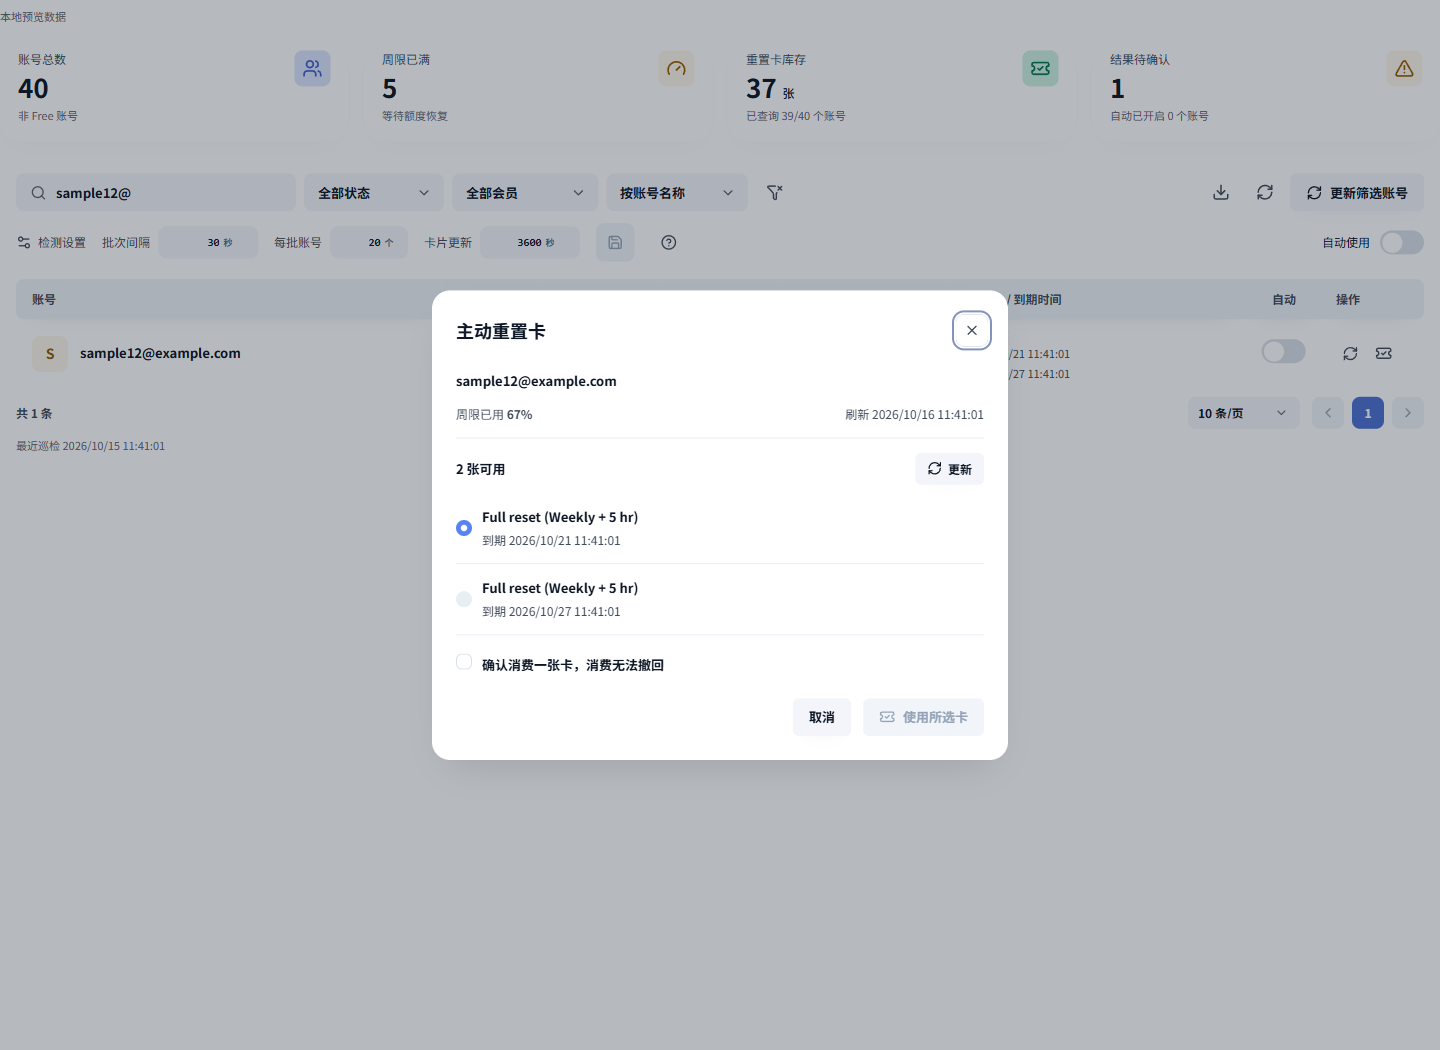
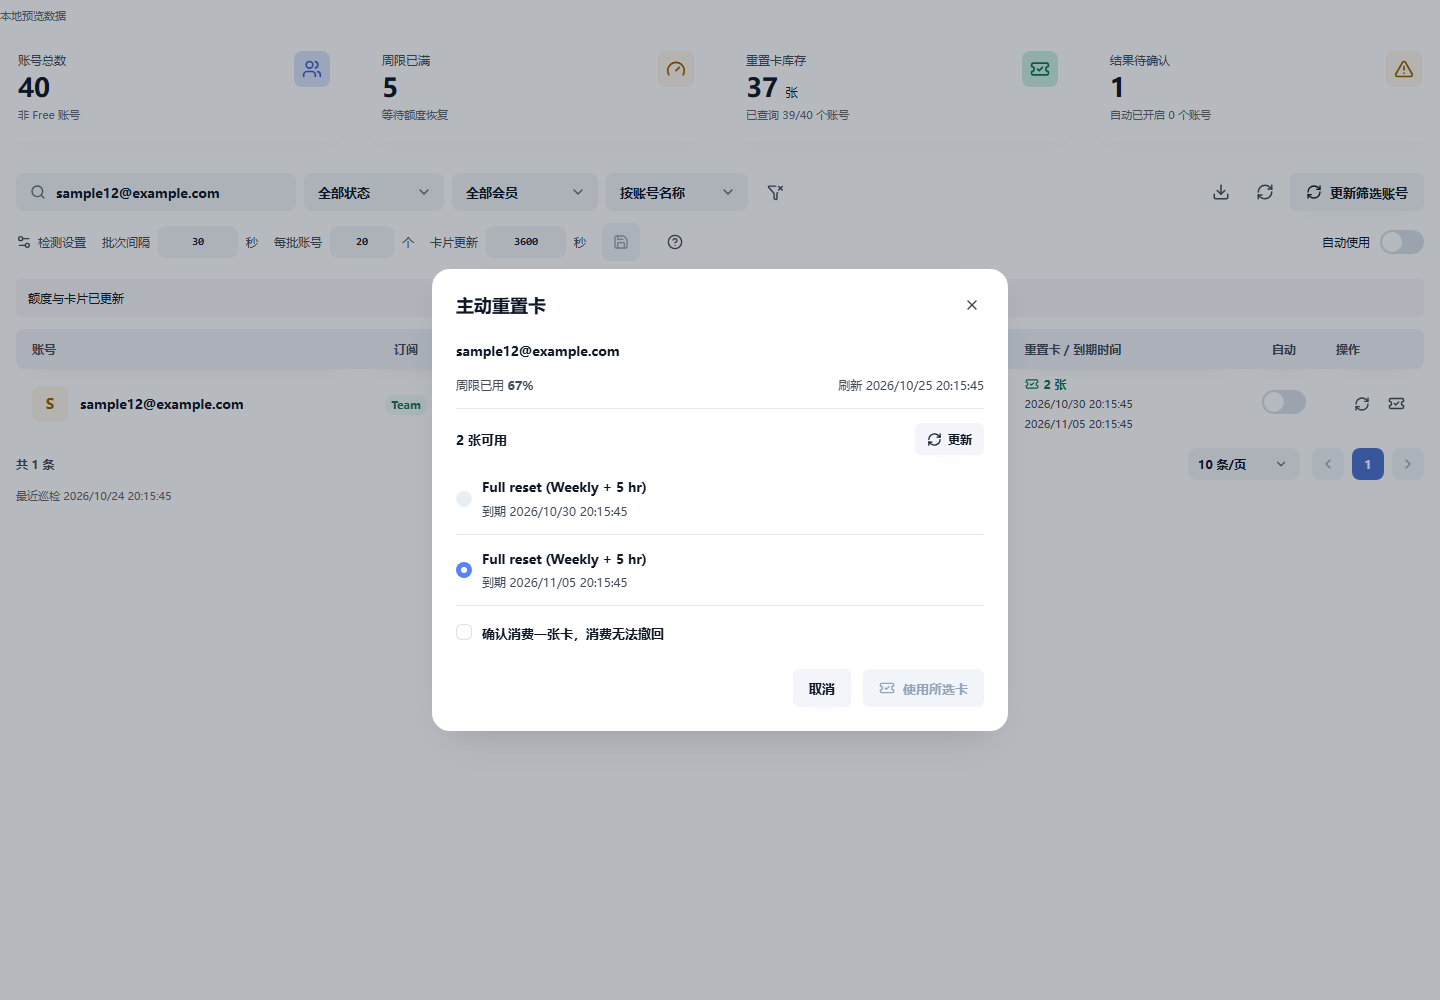
feat: display weekly estimated quota amount from host

diff --git a/frontend/src/api/schemas/quota.ts b/frontend/src/api/schemas/quota.ts
@@ -1,4 +1,4 @@
-import type { Card, Event, Page, Pending, Quota, Row, SettingsResult, State } from '../../types'
+import type { Card, Event, ForecastReport, ForecastResult, Page, Pending, Quota, Row, SettingsResult, State } from '../../types'
 import { array, boolean, nonNegativeInteger as integer, nullable, number, record, string } from '../validation'
 
 export function parseSettings(input: unknown): SettingsResult {
@@ -39,20 +39,34 @@ function parseQuota(input: unknown): Quota {
     return { key: string(w.key, '窗口标识'), window_seconds: nullable(w.window_seconds, integer, '窗口时长'), used_percent: nullable(w.used_percent, number, '用量比例'), reset_at_ms: nullable(w.reset_at_ms, integer, '额度刷新时间') }
   }, '额度窗口') }
 }
+function parseForecast(input: unknown): ForecastReport {
+  const v = record(input, '容量预估')
+  return { accountId: string(v.accountId, '预估账号'), generatedAt: string(v.generatedAt, '预估时间'), forecasts: array(v.forecasts, input => {
+    const f = record(input, '周期预估')
+    return {
+      period: string(f.period, '预估周期'), targetDays: number(f.targetDays, '预估天数'), extrapolated: boolean(f.extrapolated, '周期折算'),
+      unavailableReason: nullable(f.unavailableReason, string, '预估不可用原因'), lowSample: boolean(f.lowSample, '初步预估'), incompleteCost: boolean(f.incompleteCost, '费用记录不完整'),
+      estimatedUsd: nullable(f.estimatedUsd, number, '预估美元'), estimatedUsdDisplay: string(f.estimatedUsdDisplay, '预估美元显示'),
+    }
+  }, '周期预估') }
+}
+function parseForecastResult(v: Record<string, unknown>): ForecastResult {
+  return { forecast: nullable(v.forecast, parseForecast, '容量预估'), forecastError: nullable(v.forecastError, string, '预估查询错误') }
+}
 function parseRow(input: unknown): Row {
   const v = record(input, '账号'), a = record(v.account, '账号信息')
   return {
     account: { account_id: string(a.account_id, '账号标识'), provider_id: string(a.provider_id, '提供方'), name: string(a.name, '账号名称'), email: nullable(a.email, string, '账号邮箱'), enabled: boolean(a.enabled, '启用状态'), authentication_kind: string(a.authentication_kind, '认证类型'), plan_type: nullable(a.plan_type, string, '会员标识') },
-    quota: nullable(v.quota, parseQuota, '额度'), state: parseState(v.state),
+    quota: nullable(v.quota, parseQuota, '额度'), state: parseState(v.state), ...parseForecastResult(v),
   }
 }
 export function parsePage(input: unknown): Page {
   const v = record(input, '账号分页')
   return { accounts: array(v.accounts, parseRow, '账号列表'), excludedPending: array(v.excludedPending, parseRow, '已排除未决账号'), nextCursor: nullable(v.nextCursor, string, '分页游标'), generatedAtMs: integer(v.generatedAtMs, '快照时间') }
 }
-export function parseUpdate(input: unknown): { state: State; quota: Quota | null } {
+export function parseUpdate(input: unknown): { state: State; quota: Quota | null } & ForecastResult {
   const v = record(input, '更新结果')
-  return { state: parseState(v.state), quota: nullable(v.quota, parseQuota, '额度') }
+  return { state: parseState(v.state), quota: nullable(v.quota, parseQuota, '额度'), ...parseForecastResult(v) }
 }
 export function parsePolicy(input: unknown): SettingsResult & { state: State } {
   return { ...parseSettings(input), state: parseState(record(input, '账号策略').state) }

diff --git a/frontend/src/App.vue b/frontend/src/App.vue
@@ -16,6 +16,7 @@ import { ZRadio } from '@codex-proxy/ui/radio'
 import { ZSwitch } from '@codex-proxy/ui/switch'
 import { ZTable, type TableColumn } from '@codex-proxy/ui/table'
 import PlanBadge from './PlanBadge.vue'
+import ForecastCell from './ForecastCell.vue'
 import ExportDialog from './ExportDialog.vue'
 import { ref } from 'vue'
 import { avatarTone, canReset, csv, isAutomaticEligible, isLimited, selectable, status, time, week, weeks } from './format'
@@ -37,6 +38,7 @@ const columns: TableColumn<Row>[] = [
   { key: 'plan', label: '订阅', kind: 'status', width: 95, align: 'center' },
   { key: 'status', label: '状态', kind: 'status', width: 120 },
   { key: 'weekly', label: '周限', kind: 'custom', width: 120 },
+  { key: 'forecast', label: '周预估金额', kind: 'custom', width: 140 },
   { key: 'reset', label: '周限刷新时间', kind: 'datetime', width: 175 },
   { key: 'cards', label: '重置卡 / 到期时间', kind: 'custom', minWidth: 220 },
   { key: 'automatic', label: '自动', kind: 'custom', width: 80, align: 'center' },
@@ -94,6 +96,7 @@ const statusTone = (row: Row) => row.state.pending || isLimited(row) ? 'warning'
         <template #plan="{ row }"><PlanBadge :plan="row.account.plan_type" /></template>
         <template #status="{ row }"><span class="account-status" :class="`status-${statusTone(row)}`" :title="row.state.error || status(row)"><i></i>{{ status(row) }}</span></template>
         <template #weekly="{ row }"><div v-if="week(row)" class="weekly-cell" :title="`额度观测 ${time(row.quota?.observed_at_ms)}`"><div class="quota-value" :class="{ warning: isLimited(row) }">{{ week(row)?.used_percent == null ? '未知' : `${week(row)!.used_percent!.toFixed(1)}%` }}<span>已用</span></div><div class="quota-track"><i :class="{ exhausted: isLimited(row) }" :style="{ width: `${Math.min(100, Math.max(0, week(row)?.used_percent || 0))}%` }"></i></div><details v-if="weeks(row).length > 1" class="extra"><summary>其他周限</summary><span v-for="window in weeks(row)" :key="window.key">{{ window.key }} · {{ window.used_percent ?? '未知' }}%</span></details></div><span v-else class="muted">无周限数据</span></template>
+        <template #forecast="{ row }"><ForecastCell :row="row" /></template>
         <template #reset="{ row }"><span class="date" :title="`额度观测 ${time(row.quota?.observed_at_ms)}`">{{ time(week(row)?.reset_at_ms) }}</span></template>
         <template #cards="{ row }"><div class="credits-cell" :title="`卡片观测 ${time(row.state.cardsObservedAtMs)}`"><span class="credit-count" :class="{ muted: !row.state.cards || !row.state.cards.availableCount }"><TicketCheck :size="14" />{{ row.state.cards ? `${row.state.cards.availableCount} 张` : '未查询' }}</span><span v-for="card in selectable(row)" :key="card.id" class="expiry" :title="card.title || '用量重置'">{{ time(card.expiresAt) }}</span><span v-if="row.state.cards && row.state.cards.availableCount > 0 && !selectable(row).length" class="sub">到期信息待更新</span></div></template>
         <template #automatic="{ row }"><ZSwitch :model-value="settings.value.automatic && row.state.automatic" :disabled="blocked || !isAutomaticEligible(row)" :aria-label="`自动使用 ${row.account.name}`" :title="!row.account.enabled ? '账号已停用' : '自动使用重置卡'" @change="policy(row, $event)" /></template>

diff --git a/frontend/src/format.ts b/frontend/src/format.ts
@@ -11,6 +11,13 @@ export const planKey = (row: Row) => row.account.plan_type?.trim().toLowerCase()
 export const planLabel = (value: string) => ({ team: 'Team', plus: 'Plus', pro: 'Pro', prolite: 'ProLite', promax: 'ProMax', business: 'Business', enterprise: 'Enterprise', edu: 'Edu', go: 'Go', unknown: '未知套餐' }[value] || value)
 export const canReset = (row: Row) => row.account.provider_id === 'openai' && row.account.authentication_kind === 'oauth' && !isFree(row)
 export const week = (row: Row) => weeks(row).find(w => w.key.split(':')[0]?.toLowerCase() === 'codex') ?? weeks(row)[0]
+export const weeklyForecast = (row: Row) => row.forecast?.forecasts.find(f => f.period === 'weekly')
+export function forecastTitle(row: Row): string {
+  if (row.forecastError) return `${row.forecastError}，可读取最新快照重试`
+  const f = weeklyForecast(row)
+  if (!f) return '宿主暂无周限预估'
+  return [f.unavailableReason, f.estimatedUsd == null && !f.unavailableReason ? '暂无金额预估' : null, f.extrapolated ? `${f.targetDays} 天折算金额（USD）` : '本周期预估总金额（USD）', f.lowSample ? '样本较少，初步预估' : null, f.incompleteCost ? '费用记录不完整' : null, `预估时间 ${time(row.forecast?.generatedAt)}`].filter(Boolean).join('\n')
+}
 export const isLimited = (row: Row) => (week(row)?.used_percent ?? -1) >= 100 && (week(row)?.reset_at_ms ?? 0) > Date.now()
 export const isAutomaticEligible = (row: Row) => canReset(row) && row.account.enabled
 export const available = (card: Card, now = Date.now()) => card.status === 'available' && (!card.expiresAt || new Date(card.expiresAt).getTime() > now)
@@ -29,7 +36,7 @@ export function visualIndex(text: string, size: number) { return Array.from(text
 export function avatarTone(id: string) { return ['blue', 'green', 'orange', 'cyan'][visualIndex(id, 4)] }
 export function csv(rows: Row[]): string {
   const cell = (value: unknown) => { let s = String(value ?? ''); if (/^[=+\-@\t\r]/.test(s)) s = `'${s}`; return `"${s.replaceAll('"', '""')}"` }
-  const data = [['账号ID', '完整名称', '邮箱', '启用', '周限已用%', '周限刷新时间', '周限观测时间', '卡张数', '卡到期时间', '卡观测时间', '自动使用', '状态'],
-    ...rows.map(r => [r.account.account_id, r.account.name, r.account.email, r.account.enabled, week(r)?.used_percent, time(week(r)?.reset_at_ms), time(r.quota?.observed_at_ms), r.state.cards?.availableCount, selectable(r).map(c => `${c.id}: ${time(c.expiresAt)}`).join(' | '), time(r.state.cardsObservedAtMs), r.state.automatic, status(r)])]
+  const data = [['账号ID', '完整名称', '邮箱', '启用', '周限已用%', '周限刷新时间', '周限观测时间', '卡张数', '卡到期时间', '卡观测时间', '自动使用', '状态', '周预估金额USD', '周预估说明'],
+    ...rows.map(r => [r.account.account_id, r.account.name, r.account.email, r.account.enabled, week(r)?.used_percent, time(week(r)?.reset_at_ms), time(r.quota?.observed_at_ms), r.state.cards?.availableCount, selectable(r).map(c => `${c.id}: ${time(c.expiresAt)}`).join(' | '), time(r.state.cardsObservedAtMs), r.state.automatic, status(r), weeklyForecast(r)?.estimatedUsd, forecastTitle(r)])]
   return '\uFEFF' + data.map(r => r.map(cell).join(',')).join('\r\n')
 }

diff --git a/frontend/src/preview.ts b/frontend/src/preview.ts
@@ -11,6 +11,8 @@ export function installPreview() {
   const rows: Row[] = Array.from({ length: 43 }, (_, i) => ({
     account: { account_id: `acct_preview_${String(i + 1).padStart(3, '0')}`, provider_id: i === 42 ? 'xai' : 'openai', name: `team+sample${i + 1}@example.com+2026/10/28+workspace3+region-a`, email: `sample${i + 1}@example.com`, enabled: i !== 7, authentication_kind: i === 42 ? 'api_key' : 'oauth', plan_type: i === 0 || i === 5 || i === 40 ? 'free' : i === 41 ? 'plus' : i === 10 ? 'pro' : 'team' },
     quota: i === 42 ? null : { account_id: `acct_preview_${String(i + 1).padStart(3, '0')}`, observed_at_ms: stamp - 40000, windows: [{ key: 'codex:604800s', window_seconds: 604800, used_percent: i % 7 === 0 ? 100 : (i * 13 + 22) % 98, reset_at_ms: stamp + (i + 1) * 7200000 }] },
+    forecast: i === 42 ? null : { accountId: `acct_preview_${String(i + 1).padStart(3, '0')}`, generatedAt: new Date(stamp).toISOString(), forecasts: [{ period: 'weekly', targetDays: 7, extrapolated: false, unavailableReason: i === 41 ? '有效额度进度不足 5 个百分点，请继续积累用量。' : null, lowSample: i === 2, incompleteCost: i === 3, estimatedUsd: i === 41 ? null : (i + 1) * 12.5, estimatedUsdDisplay: i === 41 ? '—' : `$${((i + 1) * 12.5).toFixed(2)}` }] },
+    forecastError: i === 42 ? '预估查询失败' : null,
     state: { ...state(), cards: i === 41 ? null : { availableCount: i % 3, credits: Array.from({ length: i % 3 }, (_, n) => ({ id: `card_${i}_${n}`, status: 'available', title: 'Full reset (Weekly + 5 hr)', expiresAt: new Date(stamp + (n + 1) * 86400000 * 6).toISOString(), expiresAtDisplay: null, resetType: 'full' })) } },
   }))
   rows[2]!.state.pending = { requestId: 'c85eac15-2fde-4d55-92bd-f328f272f40b', creditId: 'card_2_0', startedAtMs: stamp - 20000, automatic: false }
@@ -55,7 +57,7 @@ export function installPreview() {
         row.quota!.windows[0]!.used_percent = 0
         row.state.history.unshift({ atMs: Date.now(), creditId: data.creditId ?? null, requestId: data.requestId ?? 'preview-operation', automatic: false, code: 'reset' })
       }
-      return encode({ state: view(row).state, quota: row.quota })
+      return encode({ state: view(row).state, quota: row.quota, forecast: row.forecast, forecastError: row.forecastError })
     },
   }
 }

diff --git a/frontend/src/types.ts b/frontend/src/types.ts
@@ -3,6 +3,13 @@ export interface SettingsResult { value: Settings; version: number | null; scan?
 export interface Card { id: string; status: string | null; title: string | null; expiresAt: string | null; expiresAtDisplay: string | null; resetType: string | null }
 export interface QuotaWindow { key: string; window_seconds: number | null; used_percent: number | null; reset_at_ms: number | null }
 export interface Quota { account_id: string; observed_at_ms: number | null; windows: QuotaWindow[] }
+export interface Forecast {
+  period: string; targetDays: number; extrapolated: boolean; unavailableReason: string | null;
+  lowSample: boolean; incompleteCost: boolean;
+  estimatedUsd: number | null; estimatedUsdDisplay: string;
+}
+export interface ForecastReport { accountId: string; generatedAt: string; forecasts: Forecast[] }
+export interface ForecastResult { forecast: ForecastReport | null; forecastError: string | null }
 export interface Pending { requestId: string; creditId: string | null; startedAtMs: number; automatic: boolean }
 export interface Event { atMs: number; requestId: string; creditId: string | null; automatic: boolean; code: string }
 export interface State {
@@ -10,7 +17,7 @@ export interface State {
   cardsObservedAtMs: number | null; cardsCheckedAtMs: number | null; error: string | null;
   pending: Pending | null; awaitingRecovery: boolean; lastAttemptAtMs: number | null; history: Event[];
 }
-export interface Row {
+export interface Row extends ForecastResult {
   account: { account_id: string; provider_id: string; name: string; email: string | null; enabled: boolean; authentication_kind: string; plan_type: string | null };
   quota: Quota | null; state: State;
 }

diff --git a/frontend/src/style.css b/frontend/src/style.css
@@ -49,6 +49,10 @@ body { margin: 0; min-width: 0; min-height: inherit; font-size: var(--cp-font-si
 .quota-track { width: 100%; height: 4px; border-radius: 2px; overflow: hidden; background: var(--cp-color-fill-tertiary); margin-top: 7px; }
 .quota-track i { display: block; height: 100%; background: var(--cp-color-success); }
 .quota-track i.exhausted { background: var(--cp-color-error); }
+.forecast-cell { display: grid; gap: 4px; margin: 0; font-size: 12px; line-height: 1.5; font-variant-numeric: tabular-nums; }
+.forecast-value, .forecast-note { display: block; white-space: nowrap; }
+.forecast-value { font-weight: 650; }
+.forecast-note { color: var(--cp-color-text-secondary); font-size: 11px; }
 .date, .expiry { display: block; font-size: 12px; line-height: 1.6; white-space: nowrap; font-variant-numeric: tabular-nums; }
 .credits-cell { display: grid; gap: 2px; min-width: 0; }
 .credit-count { display: flex; align-items: center; gap: 5px; font-size: 12px; font-weight: 650; color: var(--cp-color-success-text); }

diff --git a/frontend/src/ForecastCell.vue b/frontend/src/ForecastCell.vue
@@ -1,0 +1,18 @@
+<script setup lang="ts">
+import { computed } from 'vue'
+import { forecastTitle, weeklyForecast } from './format'
+import type { Row } from './types'
+
+const props = defineProps<{ row: Row }>()
+const forecast = computed(() => weeklyForecast(props.row))
+</script>
+
+<template>
+  <div class="forecast-cell" :title="forecastTitle(row)">
+    <template v-if="forecast?.estimatedUsd != null">
+      <span class="forecast-value">≈{{ forecast.estimatedUsdDisplay }}</span>
+      <span v-if="forecast.extrapolated || forecast.lowSample" class="forecast-note">{{ [forecast.extrapolated ? '折算' : '', forecast.lowSample ? '初步预估' : ''].filter(Boolean).join(' · ') }}</span>
+    </template>
+    <span v-else :class="row.forecastError ? 'warning' : 'muted'">{{ row.forecastError || '暂无预估' }}</span>
+  </div>
+</template>

diff --git a/frontend/src/useQuotaManager.ts b/frontend/src/useQuotaManager.ts
@@ -61,9 +61,10 @@ export function useQuotaManager() {
   }
   function resetDraft() { acceptSettings(settings.value, true) }
   function clearFilters() { search.value = ''; filter.value = 'all'; membership.value = 'all' }
-  function applyRow(row: Row, result: { state: Row['state']; quota?: Row['quota'] }) {
+  function applyRow(row: Row, result: { state: Row['state'] } & Partial<Pick<Row, 'quota' | 'forecast' | 'forecastError'>>) {
     row.state = result.state
     if ('quota' in result) row.quota = result.quota ?? null
+    if ('forecast' in result) { row.forecast = result.forecast ?? null; row.forecastError = result.forecastError ?? null }
     row.state.automatic = settings.value.value.automatic && row.state.automatic && isAutomaticEligible(row)
   }
   async function load(silent = false) {

diff --git a/backend/src/management.rs b/backend/src/management.rs
@@ -2,7 +2,7 @@
 
 use crate::{
     automation::{self, Selection},
-    engine,
+    engine, forecast,
     host::{fault, load, now, save},
     model::*,
 };
@@ -115,7 +115,7 @@ async fn handle_inner(call: TypedCall<ManagementRequest>) -> Result<Value, Plugi
                 if is_free(account.plan_type.as_deref()) {
                     if state.pending.is_some() {
                         excluded_pending
-                            .push(json!({"account":account_view,"quota":null,"state":state}));
+                            .push(json!({"account":account_view,"quota":null,"state":state,"forecast":null,"forecastError":null}));
                     }
                     continue;
                 }
@@ -125,7 +125,8 @@ async fn handle_inner(call: TypedCall<ManagementRequest>) -> Result<Value, Plugi
                     })
                     .await
                     .ok();
-                rows.push(json!({"account":account_view,"quota":quota,"state":state}));
+                let (forecast, forecast_error) = forecast::read(host, &account.account_id).await;
+                rows.push(json!({"account":account_view,"quota":quota,"state":state,"forecast":forecast,"forecastError":forecast_error}));
             }
             return Ok(
                 json!({"accounts":rows,"excludedPending":excluded_pending,"nextCursor":page.next_cursor,"generatedAtMs":now()}),
@@ -217,7 +218,10 @@ async fn handle_inner(call: TypedCall<ManagementRequest>) -> Result<Value, Plugi
             let (settings, _) = load::<Settings>(host, "settings").await?;
             let (selection, _) = load::<Selection>(host, "automation").await?;
             state.automatic = automation::enabled(&settings, &selection, &account, &state);
-            Ok(json!({"state":state,"quota":quota}))
+            let (forecast, forecast_error) = forecast::read(host, id).await;
+            Ok(
+                json!({"state":state,"quota":quota,"forecast":forecast,"forecastError":forecast_error}),
+            )
         }
         "api/consume" | "api/retry" => {
             if call.request.path == "api/retry" && request.request_id.is_none() {
@@ -244,7 +248,10 @@ async fn handle_inner(call: TypedCall<ManagementRequest>) -> Result<Value, Plugi
                 })
                 .await
                 .ok();
-            Ok(json!({"state":state,"quota":quota}))
+            let (forecast, forecast_error) = forecast::read(host, id).await;
+            Ok(
+                json!({"state":state,"quota":quota,"forecast":forecast,"forecastError":forecast_error}),
+            )
         }
         _ => Err(fault("路由不存在")),
     }

diff --git a/backend/src/forecast.rs b/backend/src/forecast.rs
@@ -1,0 +1,37 @@
+//! 从宿主本地用量记录实时读取容量预估，不刷新远程额度
+
+use crate::host::{account_path, admin};
+use gateway_plugin_sdk::client::HostClient;
+use serde::{Deserialize, Serialize};
+
+#[derive(Deserialize, Serialize)]
+#[serde(rename_all = "camelCase")]
+pub struct ForecastReport {
+    pub account_id: String,
+    pub generated_at: String,
+    pub forecasts: Vec<Forecast>,
+}
+
+#[derive(Deserialize, Serialize)]
+#[serde(rename_all = "camelCase")]
+pub struct Forecast {
+    pub period: String,
+    pub target_days: f64,
+    pub extrapolated: bool,
+    pub unavailable_reason: Option<String>,
+    pub low_sample: bool,
+    pub incomplete_cost: bool,
+    pub estimated_usd: Option<f64>,
+    pub estimated_usd_display: String,
+}
+
+pub async fn read(host: &HostClient, id: &str) -> (Option<ForecastReport>, Option<&'static str>) {
+    let value = match admin(host, "GET", &account_path("quota-forecast", id), None).await {
+        Ok(value) => value,
+        Err(_) => return (None, Some("预估查询失败")),
+    };
+    match serde_json::from_value::<ForecastReport>(value) {
+        Ok(report) if report.account_id == id => (Some(report), None),
+        _ => (None, Some("预估响应无效")),
+    }
+}

diff --git a/backend/src/main.rs b/backend/src/main.rs
@@ -2,6 +2,7 @@
 
 mod automation;
 mod engine;
+mod forecast;
 mod host;
 mod management;
 mod model;

diff --git a/verification/UPSTREAM-COMPLIANCE.md b/verification/UPSTREAM-COMPLIANCE.md
@@ -4,6 +4,14 @@
 
 SDK 已对齐 RS v3.30.2，进程协议升级为 v5、management 升级为 v2，清单与页面桥保持 v2。UI 升级至 v0.6.0，并通过公开 `ZConfigProvider` / `zhHans` 保留中文控件。差异分析、原生自动重置冲突处理和验证证据见 [SDK 适配记录](../docs/SDK-UPGRADE-v0.2.0.md)。
 
+### 周预估金额
+
+管理页通过现有 `host.http.dispatch` 调用宿主相对路径 `GET /api/admin/accounts/quota-forecast?accountId=…`。RS v3.30.2 的 [查询实现](https://github.com/zyycn/codex-proxy-rs/blob/v3.30.2/backend/crates/gateway-admin/src/use_case/accounts/mod.rs) 使用 `refresh: false` 的额度观测和本地配对用量历史；[响应契约](https://github.com/zyycn/codex-proxy-rs/blob/v3.30.2/backend/crates/gateway-api/src/admin/accounts/wire.rs) 提供周/月预估。插件展示 `period: weekly` 的 `estimatedUsdDisplay`，保留金额原值用于导出，不自行按 Token 数或周期比例换算。页面与导出只展示周预估金额。
+
+预估随账号快照读取、手动更新和消费结果回读更新，不写入插件私有状态。单个账号查询失败或响应账号不匹配时单独提示，保留账号列表、额度和卡片操作；无金额时显示“暂无预估”，零金额正常显示。预估不参与自动消费判断，SDK、宿主兼容范围和状态 schema 均不变。
+
+2026-10-24 本地验证通过：Rustfmt、严格 Clippy、3 项 Rust 测试、34 项模拟宿主协议场景、12 项前端契约用例、9 项浏览器回归及生产构建。覆盖列顺序、金额实时更新、零值、只有 Token 而没有金额、预估失败、CSV、深浅主题和窄屏；截图见 `docs/screenshots/overview.png` 与 `verification/ui-artifacts/`。未进行真实宿主安装、线上切换或真实卡片消费。本次为新增展示功能，发布与网站更新需单独安排。
+
 ## 历史审查 v0.1.3–v0.1.4
 
 审查范围：personal.quota-manager 0.1.2 -> 0.1.3。
